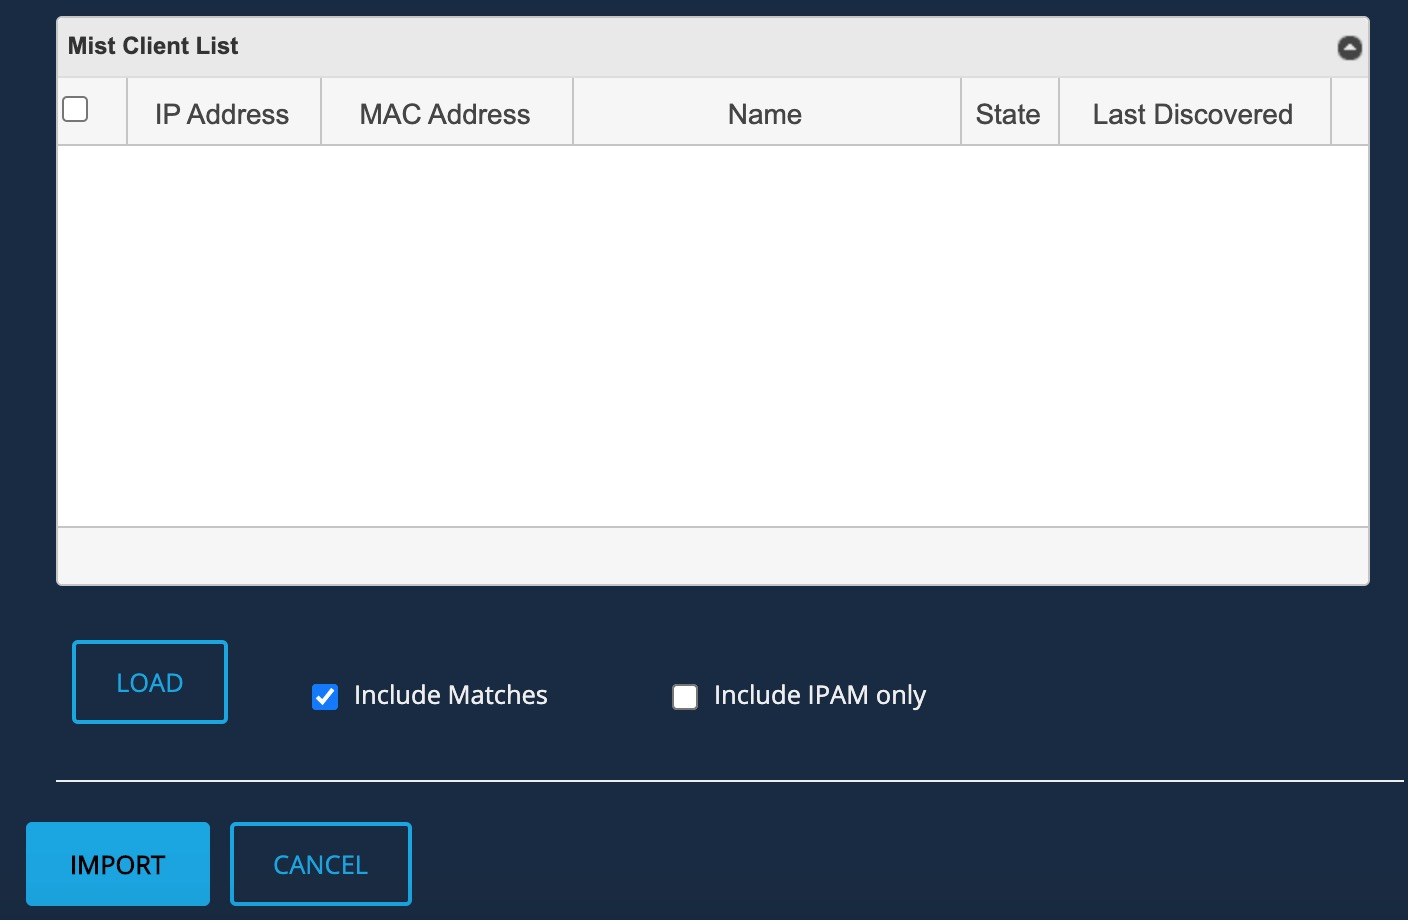
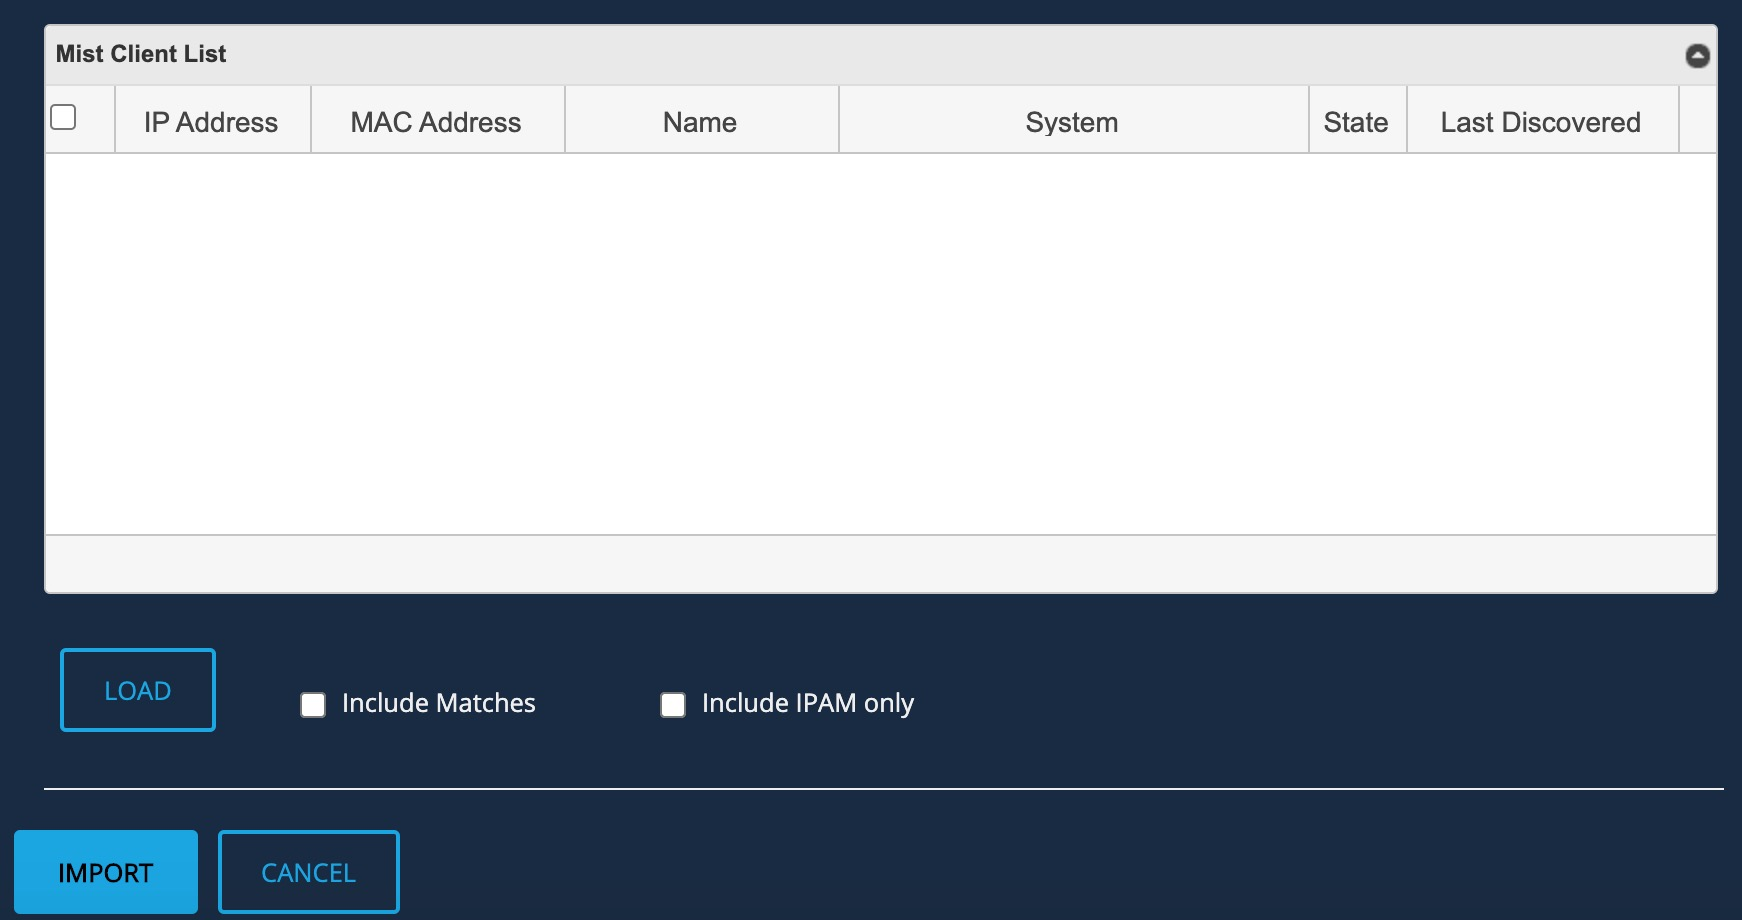
added new workflow

Changed region(s): [[0.0, 0.0, 1.0, 0.8217], [0.0, 0.8826, 0.3125, 1.0]]

diff --git a/Community/mist_importer/README.md b/Community/mist_importer/README.md
@@ -30,7 +30,9 @@ When import is executed, BlueCat Address Manager will perform IP address reconci
 1. **BAM Default Configuration**  
 This workflow will be using the default configuration value in `/portal/bluecat_portal/config.py` in BlueCat Gateway container.  To set the default configuration, in BlueCat Gateway, go to Administration > Configurations > General Configuration.  
 In General Configuration, select the BAM Settings tab and enter the configuration name under "Default Configuration:" and save.  
-![screenshot](img/BAM_default_settings.jpg "BAM_default_settings")
+
+    <img src = "img/BAM_default_settings.jpg" width = "600px">  
+
 
 2. **Additional Python Code**  
 This workflow requires addtional python code.  
@@ -39,9 +41,27 @@ Copy directory *"mist"* under `additional/` to `/portal/bluecat_portal/customiza
 3. **jqGrid**  
 This workflow requires jqGrid.  
 Download jqGrid from [HERE](http://www.trirand.com/blog/?page_id=6).  
-After downloading, extract the following two files: *"ui.jqgrid.css"* and *"jquery.jqGrid.min.js"*.  
-Copy the two files to `/portal/static/js/vendor/jqgrid/` inside the Bluecat Gateway container.  
+After downloading, extract the following three files: *"ui.jqgrid.css"*, *"jquery.jqGrid.min.js"* and *"grid.locale-xx.js"*.  
+*"grid.locale-xx.js"* will change depending on the locale you choose to use.  
+(For instance, for Japan it will be *"grid.locale-ja.js"*)  
+Copy the three files to `/portal/static/js/vendor/jqgrid/` inside the Bluecat Gateway container.  
 Make a new director `jqgrid` under `/portal/static/js/vendor/` if none exists.  
+
+4. **UDF**  
+This workflow requires additional UDF to the **MAC Address object** in BAM.  
+Add the following UDF to the **MAC Address object** in BAM.  
+  - System  
+  Field Name: System    
+  Display Name: System   
+  Type: Text  
+  - Imported Source    
+  Field Name: ImportedSource  
+  Display Name: Imported Source   
+  Type: Text  
+  - Detail Link  
+  Field Name: DetailLink  
+  Display Name: Detail Link  
+  Type: URL
 
 
 ## Usage   
@@ -64,7 +84,7 @@ Please refer to the Mist "API Token" API documentation for further details.
 - Site Name:  
 This corresponds to the *Organization Name* in the **Organization settings** menu.  
 Make sure it is the same name (case sensitive) as in the Mist Dashboard web UI. (*Organization* -> *Settings*)  
-  <img src = "img/mist_org_name.jpg" width = "400px">  
+  <img src = "img/mist_org_name.jpg" width = "300px">  
   Please refer to the Mist "Organization" API documentation if you wish to obtain this via API.  
   [https://api.mist.com/api/v1/docs/Org#org-setting](https://api.mist.com/api/v1/docs/Org#org-setting)     
 
@@ -91,7 +111,7 @@ When this option is toggled on, it will load the clients which only exists in Bl
     + *"Reclaimable IP Address"* => An IP address that exists in BlueCat Address Manager, but not in Mist Dashboard. This may represent a device that was turned off at the time of the discovery, or the address may no longer exist on the network.
 
 **Mist Client List**    
-  <img src = "img/mist_client_list_loaded.jpg" width = "600px">   
+  <!-- <img src = "img/mist_client_list_loaded.jpg" width = "600px">    -->
 
 - IP Address  
 The IP Address of the loaded client.  
@@ -101,6 +121,9 @@ The MAC Address of the loaded client.
 
 - Name  
 The host name of the loaded client (if exists).  
+
+- System  
+The device type of the loaded client (if exists).  
 
 - State  
 The IP address state of the loaded client.  
@@ -125,6 +148,9 @@ After thoroughly checking the state of the loaded clients, select the clients yo
 
     Click *IMPORT* to import data into BlueCat Address Manager.  
     By Clicking *CANCEL*, the whole list will be cleared.  
+
+    **DHCP leased IP addresses**  
+    If the imported IP address happens to be a DHCP leased IP address, then it will **NOT** update the IP address and MAC address information in BlueCat Address Manager and will only add additional information obtained by Meraki Dashboard.  
 
 4. **Checking imported information**  
 Once imported, check the device information in BlueCat Address Manager.  
@@ -151,7 +177,9 @@ You can switch to a Japanese menu by doing the following.
     2. In the BlueCat Gateway Web UI, go to Administration > Configurations > General Configuration.   
     In General Configuration, select the *Customization* tab.  
     Under *Language:* type in `ja` and save.  
-    ![screenshot](img/langauge_ja.jpg?raw=true "langauge_ja")  
+
+            <img src = "img/langauge_ja.jpg" width = "500px" height = "400px">  
+
 
 2. **Appearance**  
 This will make the base html menus a little bit wider.  
